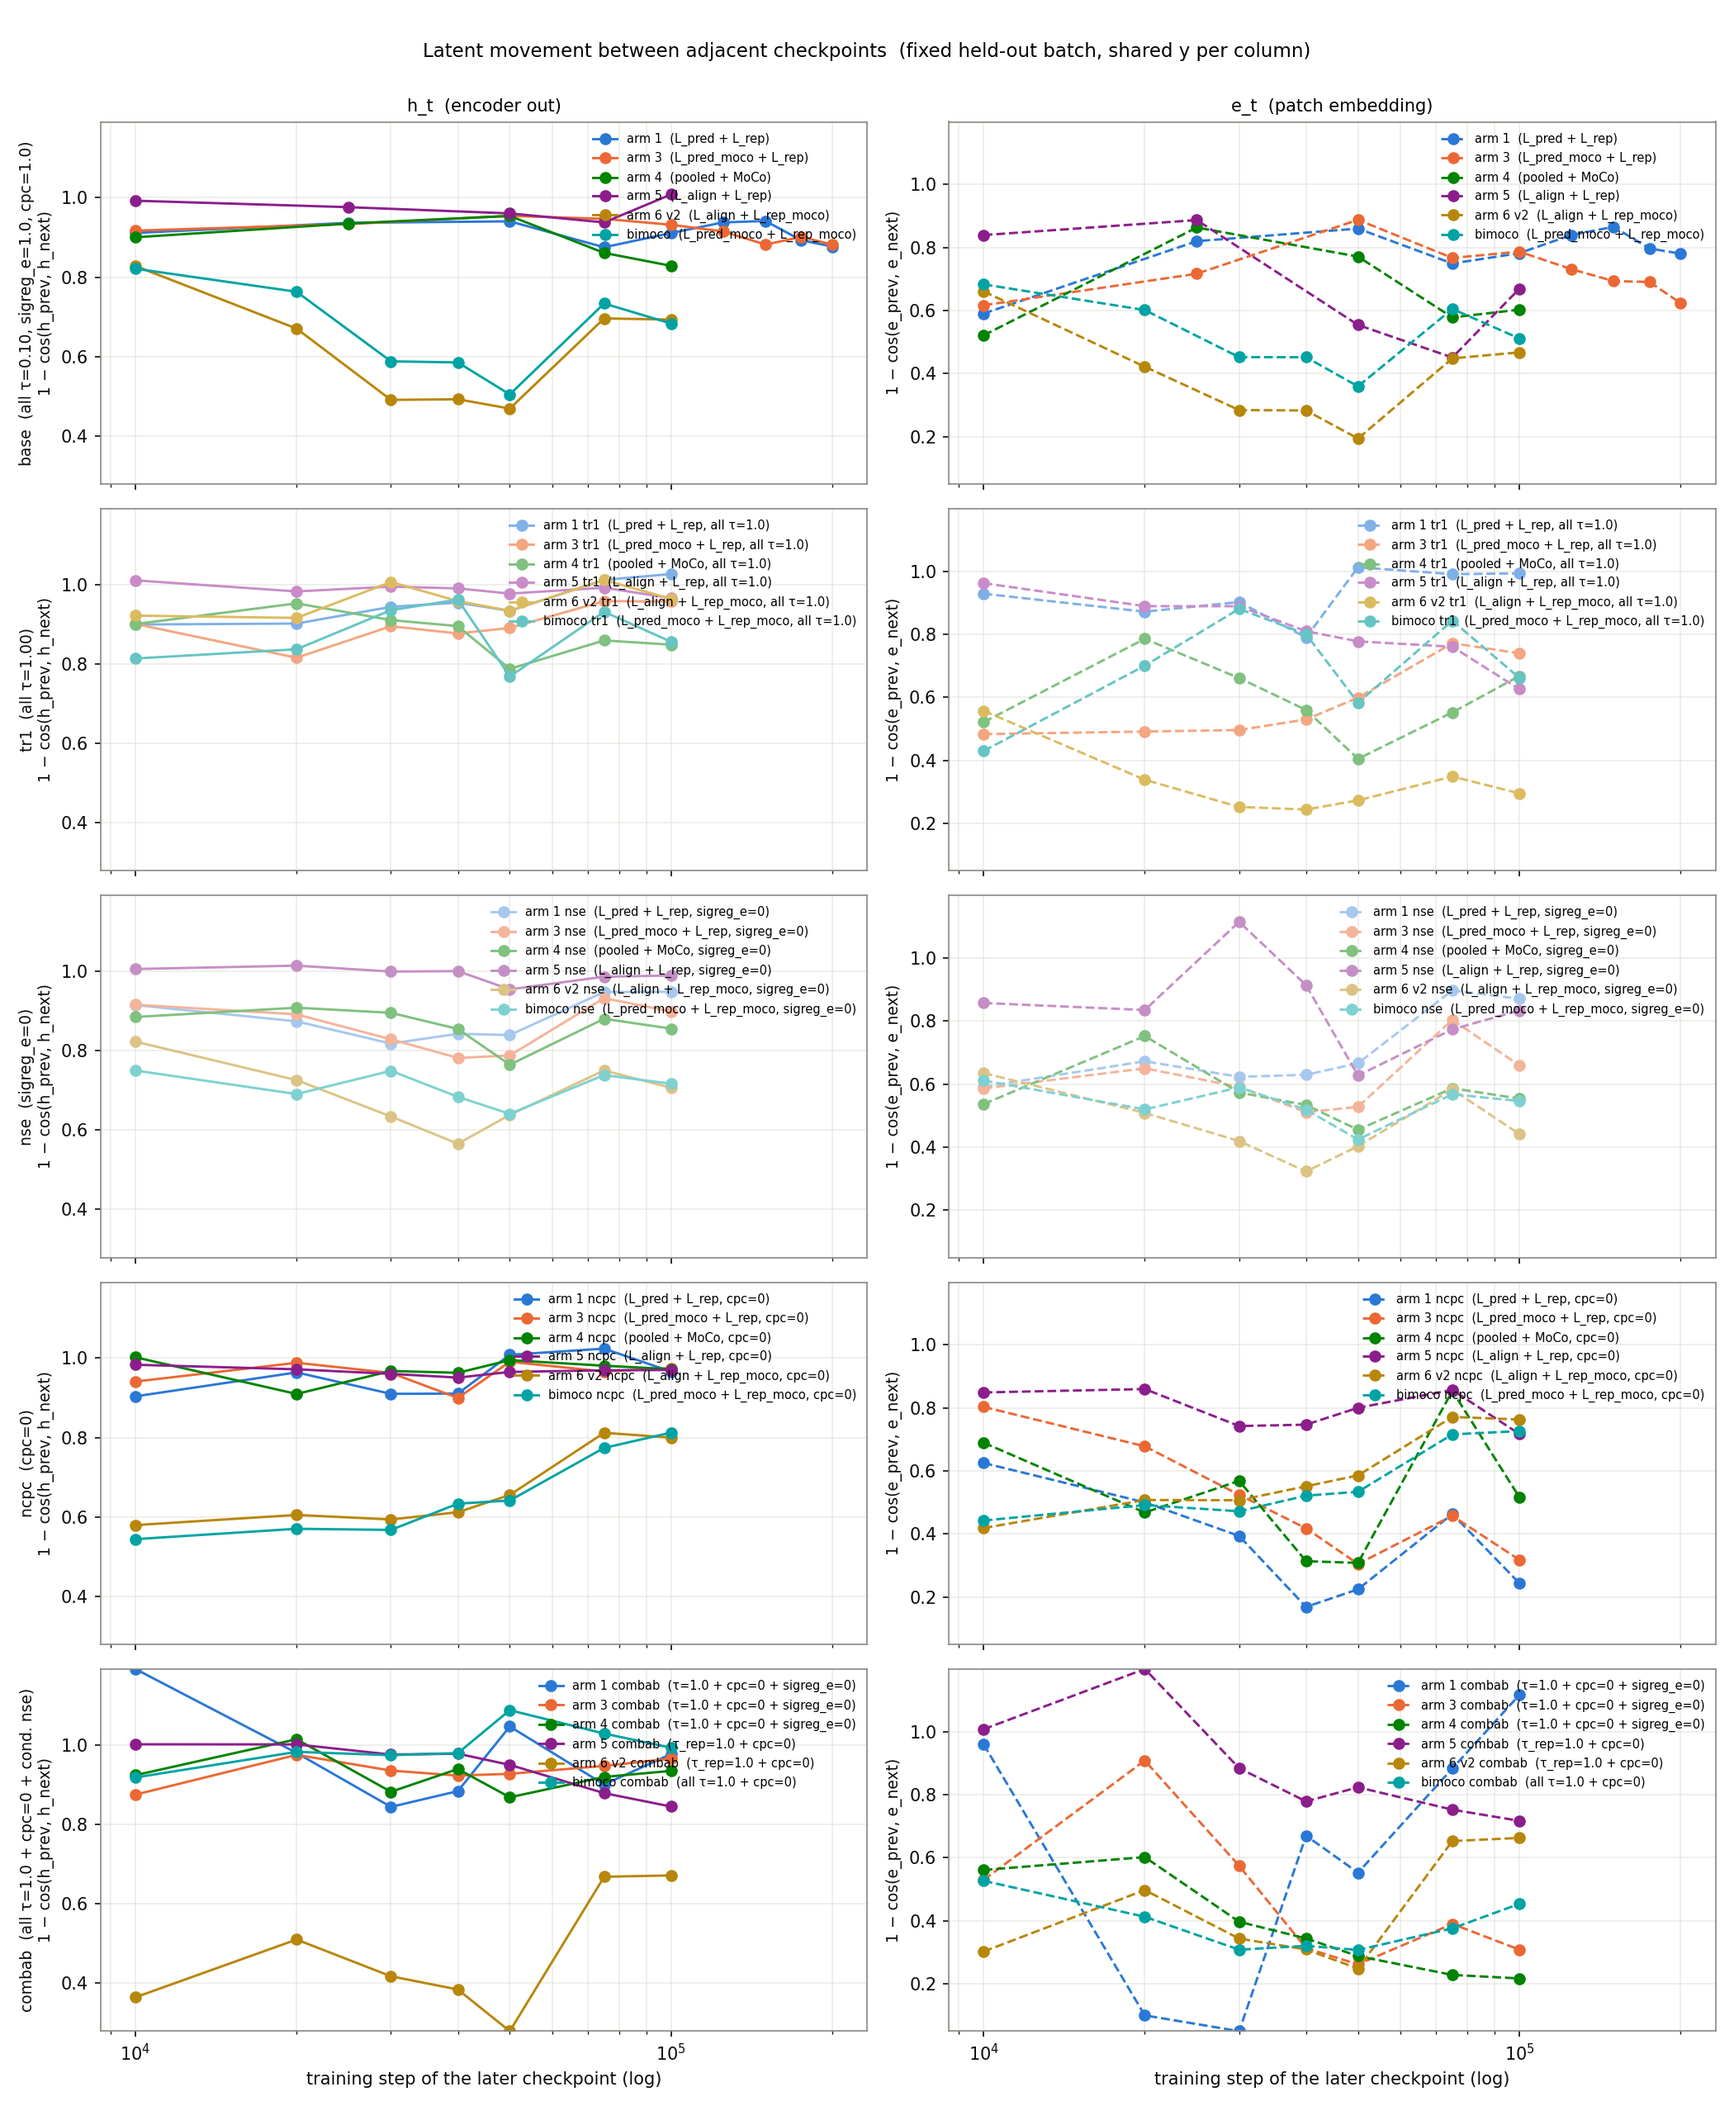
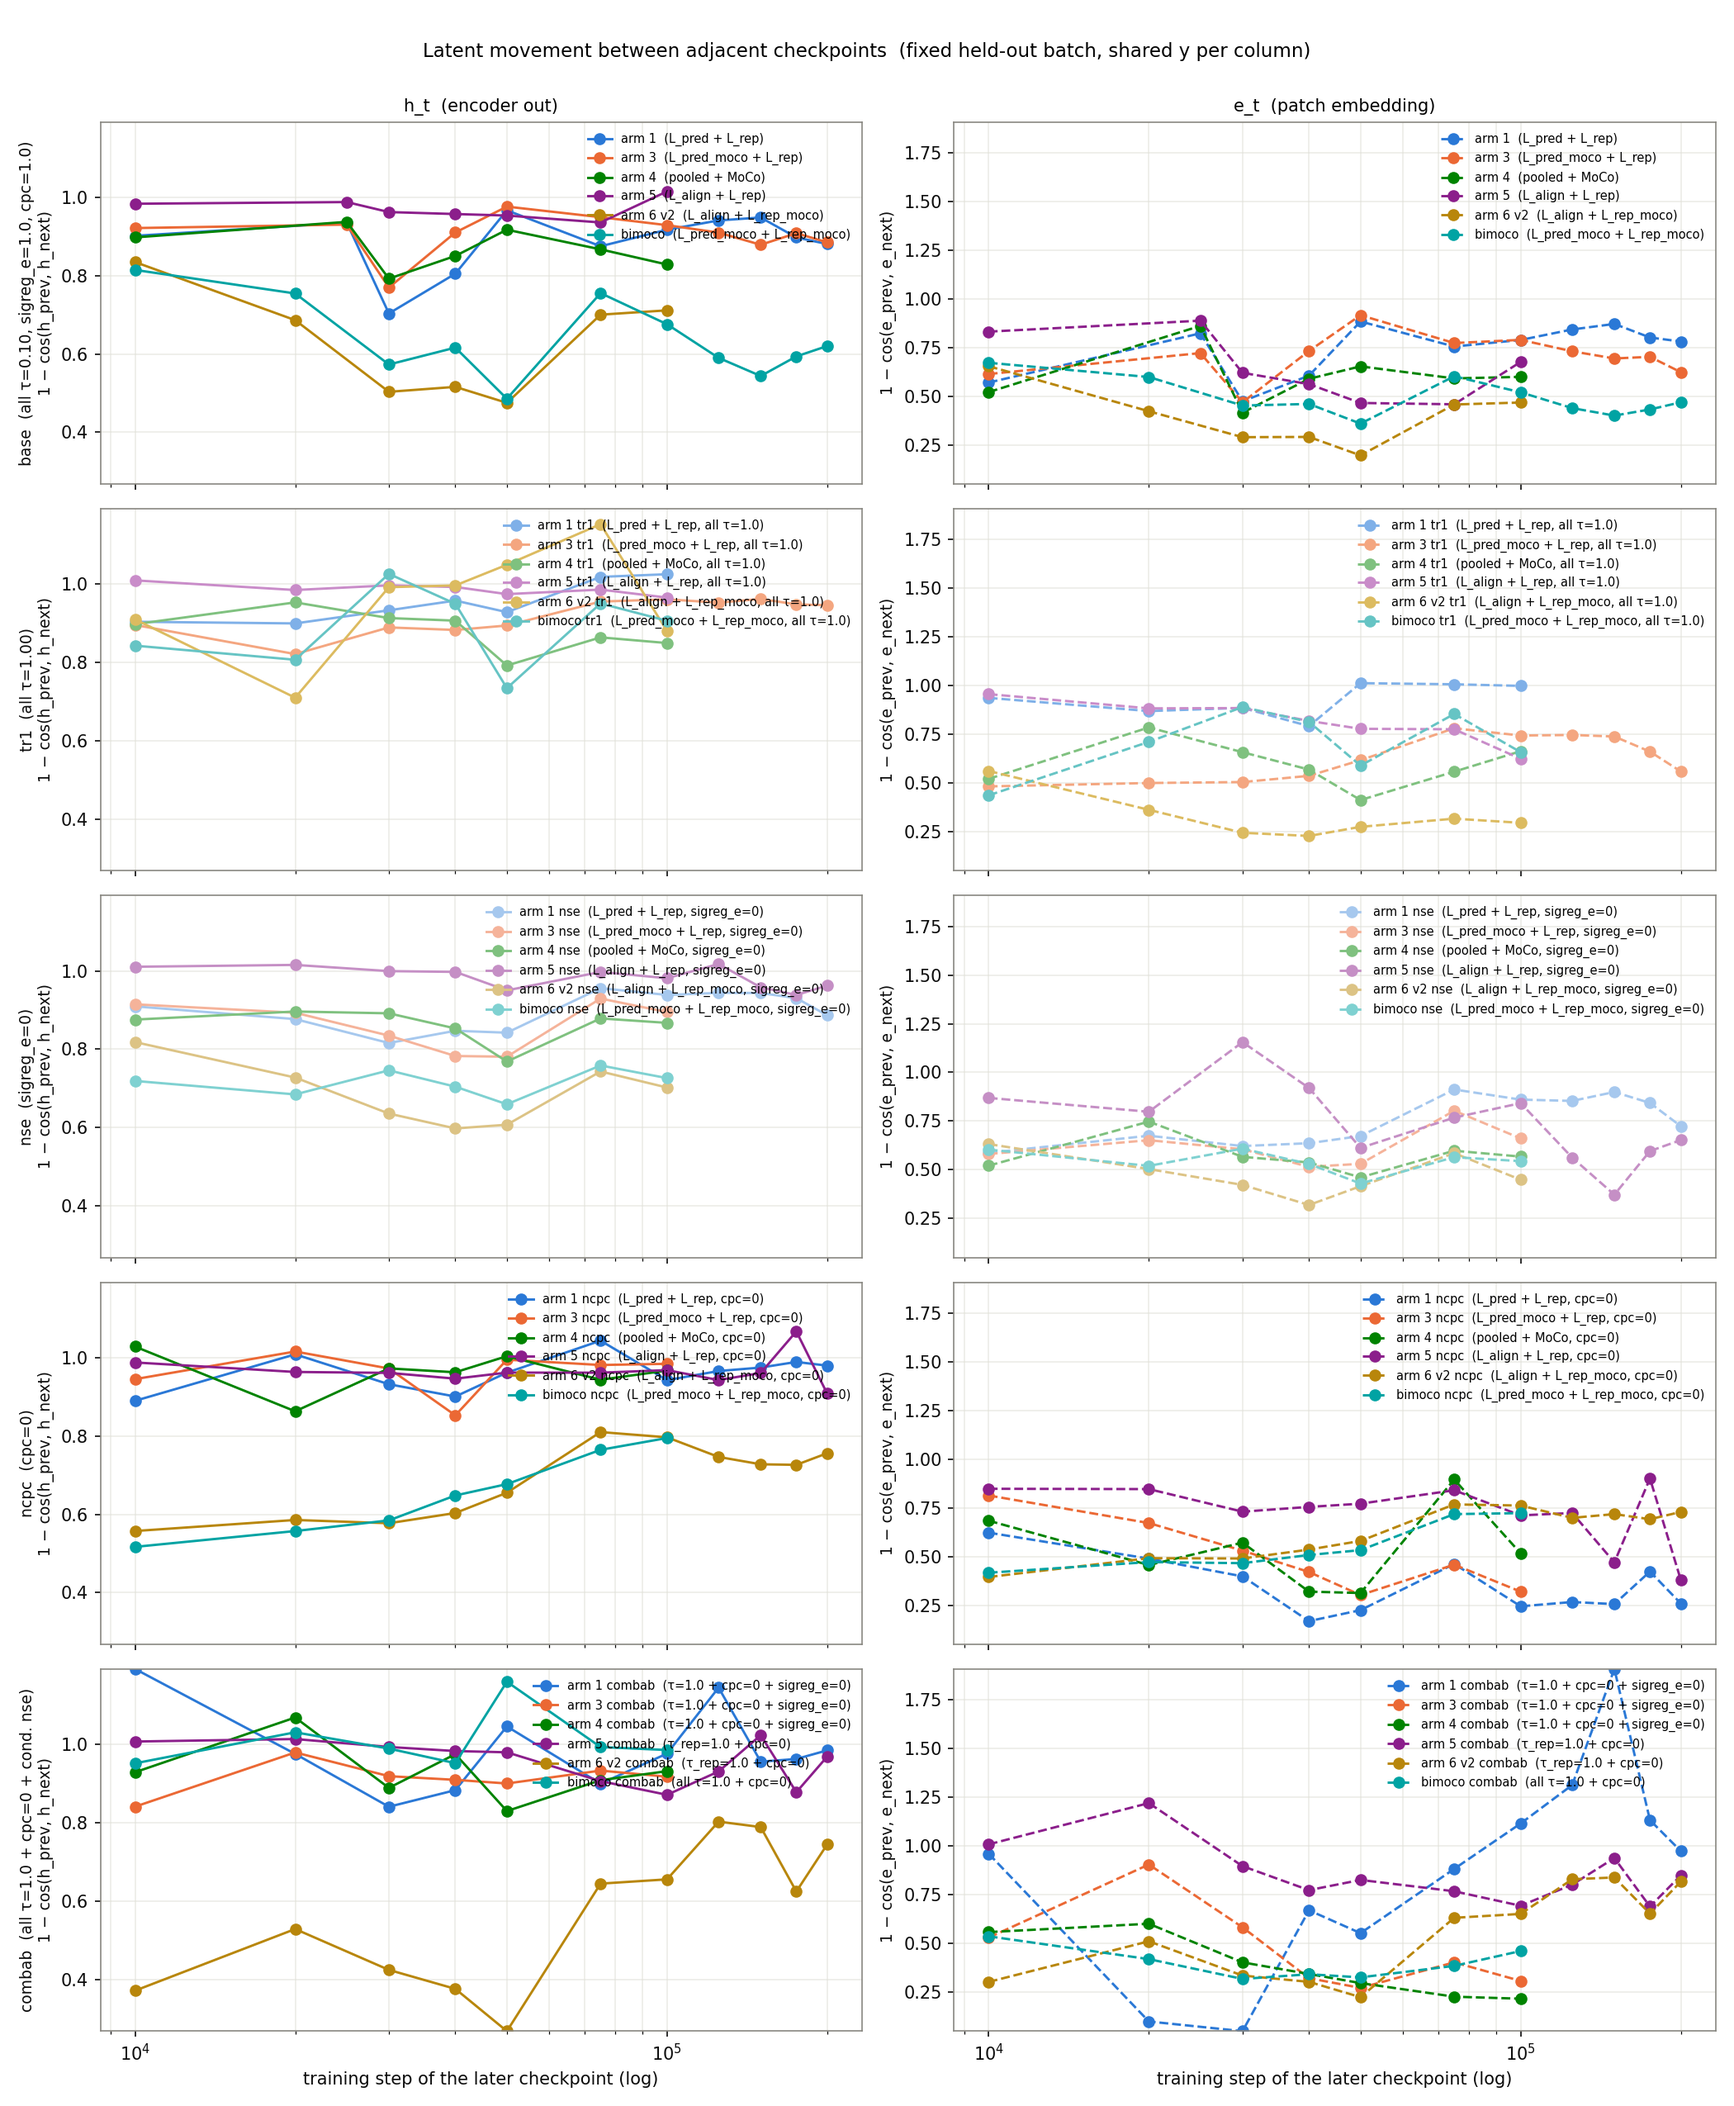
report(#379): add the backbone-200k ranking, refresh the stale latent-movement figure
Two items from PR review.

Ranking at backbone 200k, covering the 10 cells extended past 100k. Each bar
carries that cell's 100k value as a tick and the change above it, so the
figure reads as a ranking and as a before/after at once. The title states the
subset, so it is not mistaken for the full 30-cell field.

The latent-movement figure was generated on 2026-07-27 and never rebuilt after
the extensions landed, so it stopped at each cell's then-newest checkpoint.
The checkpoint discovery was already correct — it picks up the `_r3_125k`
through `_r3_200k` files without change — the figure was simply stale.
Rebuilt: the 10 extended cells now show 11 adjacent-checkpoint pairs and run
past 10^5, the other 20 still stop at 7 pairs.

Claude-Session: https://claude.ai/code/session_012NGZ7hjBMq9qppu4QyaqMw

diff --git a/reports/2026-07-21_split_pred_rep_small/plots/_make_eval_bars_200k.py b/reports/2026-07-21_split_pred_rep_small/plots/_make_eval_bars_200k.py
@@ -1,0 +1,69 @@
+"""Bar plot of GM-Relative MASE at backbone step 200k, head 30k steps.
+
+Only the 10 cells that improved from backbone 40k to 100k were extended to
+200k, so this ranking covers those 10 — it is not the full 30-cell field the
+40k and 100k rankings show. Each bar also carries the cell's 100k value, so
+the extension's effect is readable without switching figures.
+"""
+from pathlib import Path
+import matplotlib.pyplot as plt
+
+import _cells as C
+
+HERE = Path(__file__).parent
+INK, MUTED, GRID = "#0b0b0b", "#898781", "#e1e0d9"
+plt.rcParams.update({
+    "figure.dpi": 150, "savefig.dpi": 150, "font.size": 10,
+    "axes.edgecolor": MUTED, "axes.labelcolor": INK,
+    "xtick.color": INK, "ytick.color": INK,
+})
+SEED_NOISE = 0.01
+
+rows = []
+for arm, var, vals in C.all_cells():
+    if vals[2] is None: continue
+    rows.append((vals[2], vals[1], arm, var))
+rows.sort(key=lambda r: r[0])
+
+fig, ax = plt.subplots(figsize=(12, 6))
+xs = list(range(len(rows)))
+ys = [r[0] for r in rows]
+prev = [r[1] for r in rows]
+colours = [C.ARM_COLOR[r[2]] for r in rows]
+labels = [C.label(r[2], r[3]) for r in rows]
+
+ax.bar(xs, ys, color=colours, yerr=SEED_NOISE, capsize=6, width=0.62,
+       error_kw={"ecolor": INK, "elinewidth": 1.2})
+# Where the cell sat at 100k, so each bar shows what the extension did.
+ax.scatter(xs, prev, marker="_", s=420, color=INK, linewidths=1.8, zorder=4,
+           label="value at backbone 100k")
+
+for x, v, p in zip(xs, ys, prev):
+    # Value inside the bar, change above whichever of the two marks is higher,
+    # so neither collides with the bar fill or the 100k tick.
+    # When the cell worsened the 100k tick sits inside the bar, so drop the
+    # value label below it rather than printing the two on top of each other.
+    v_y = (min(v, p) - 0.012) if p < v else (v - 0.012)
+    ax.text(x, v_y, f"{v:.4f}", ha="center", va="top", fontsize=8.5,
+            color="white", weight="bold")
+    d = v - p
+    ax.text(x, max(v, p) + 0.012, f"{d:+.3f}", ha="center", va="bottom",
+            fontsize=8.5, color="#2e8b57" if d < 0 else "#c04040", weight="bold")
+
+ax.set_xticks(xs)
+ax.set_xticklabels(labels, rotation=45, ha="right")
+ax.set_ylabel("Aggregate GM-Relative MASE  (lower is better)")
+ax.grid(True, axis="y", color=GRID, alpha=0.6)
+ax.set_ylim(min(min(ys), min(prev)) - 0.06, max(max(ys), max(prev)) + 0.075)
+ax.legend(loc="upper left", fontsize=9, frameon=False)
+n_down = sum(1 for v, p, _a, _v in rows if v < p)
+ax.set_title(
+    f"GM-Relative MASE at backbone step 200k, head 30k steps, GIFT-Eval B4\n"
+    f"only the {len(rows)} cells extended past 100k — {n_down} improved again, "
+    f"{len(rows) - n_down} worsened\n"
+    f"seasonal-naive parity (1.0) is below the axis; no cell reaches it",
+    fontsize=10.5)
+fig.tight_layout()
+out = HERE / "eval_2L_gm_mase_bars_200k.png"
+fig.savefig(out)
+print(f"wrote {out}  ({len(rows)} cells, {n_down} improved again)")

diff --git a/reports/2026-07-21_split_pred_rep_small/small_long.md b/reports/2026-07-21_split_pred_rep_small/small_long.md
@@ -34,17 +34,23 @@ The headline number is one geometric mean over all 97 configs. These radars appl
 
 ![Bar chart of GM-Relative MASE for all 30 cells at backbone step 100k, head 30k steps, sorted ascending; red dashed line at 1.0 = seasonal-naive.](plots/eval_2L_gm_mase_bars_100k.png)
 
-### 6. Latent movement between adjacent checkpoints
+### 6. Ranking at backbone 200k
 
-How far the latents of a fixed held-out batch rotate between one saved checkpoint and the next. Rows = setting, columns = `h_t` / `e_t`.
+Only the 10 cells extended past 100k, so this is a ranking of that subset, not of the full 30-cell field. Each bar carries the cell's 100k value as a black tick, so the extension's effect is readable here too.
+
+![Bar chart of GM-Relative MASE for the 10 cells evaluated at backbone step 200k, head 30k steps, sorted ascending; a black tick on each bar marks the same cell's value at backbone 100k and the change is printed above.](plots/eval_2L_gm_mase_bars_200k.png)
+
+### 7. Latent movement between adjacent checkpoints
+
+How far the latents of a fixed held-out batch rotate between one saved checkpoint and the next. Rows = setting, columns = `h_t` / `e_t`. Curves run to each cell's last checkpoint, so the 10 extended cells continue past 10^5 where the other 20 stop.
 
 ![Latent drift per adjacent-checkpoint pair, 5 rows (base / tr1 / nse / ncpc / combab) × 2 columns (h_t encoder output, e_t patch embedding), x-axis log training step, y shared per column.](plots/latent_movement_per_arm.png)
 
-### 7. Forecast-to-latent distance `1 − ff` during training
+### 8. Forecast-to-latent distance `1 − ff` during training
 
 ![1 − ff per arm across training steps, one panel per setting (base / tr1 / nse / ncpc / combab), shared y axis, x-axis log training step.](plots/cos_error_per_arm.png)
 
-### 8. Dimension usage `u_batchtime` during training
+### 9. Dimension usage `u_batchtime` during training
 
 ![u_batchtime per arm, one panel per arm × setting, h_t solid and e_t dashed, x-axis log training step.](plots/dim_usage_per_arm.png)
 
@@ -124,7 +130,7 @@ Ranked by the 100k value. A dash in the 200k columns means the cell was not exte
 | 29 | `arm3 nse`        | 1.4432 | 1.7372 | +0.2940 | — | — |
 | 30 | `arm1 combab`     | 3.1251 | 1.7595 | −1.3656 | 1.7107 | −0.0488 |
 
-**On the ±0.01 error bars in figures 4 and 5.** Each cell is `N=1`, so this is not a measured seed-replicate interval for this experiment. It is a constant borrowed from the 2026-05-08 τ-sweep paired reruns via the [LeJEPA-SIGReg-τ report annex F](../2026-06-21_lejepa_sigreg_tau098/lejepa_sigreg_tau098.md#f-seed-noise-band), shown as a visual reference for "differences smaller than this have previously turned out to be within-seed noise", not as a confidence interval for this ranking.
+**On the ±0.01 error bars in figures 4, 5 and 6.** Each cell is `N=1`, so this is not a measured seed-replicate interval for this experiment. It is a constant borrowed from the 2026-05-08 τ-sweep paired reruns via the [LeJEPA-SIGReg-τ report annex F](../2026-06-21_lejepa_sigreg_tau098/lejepa_sigreg_tau098.md#f-seed-noise-band), shown as a visual reference for "differences smaller than this have previously turned out to be within-seed noise", not as a confidence interval for this ranking.
 
 ### GM-Relative MASE per domain, the cells evaluated at backbone 200k
 
